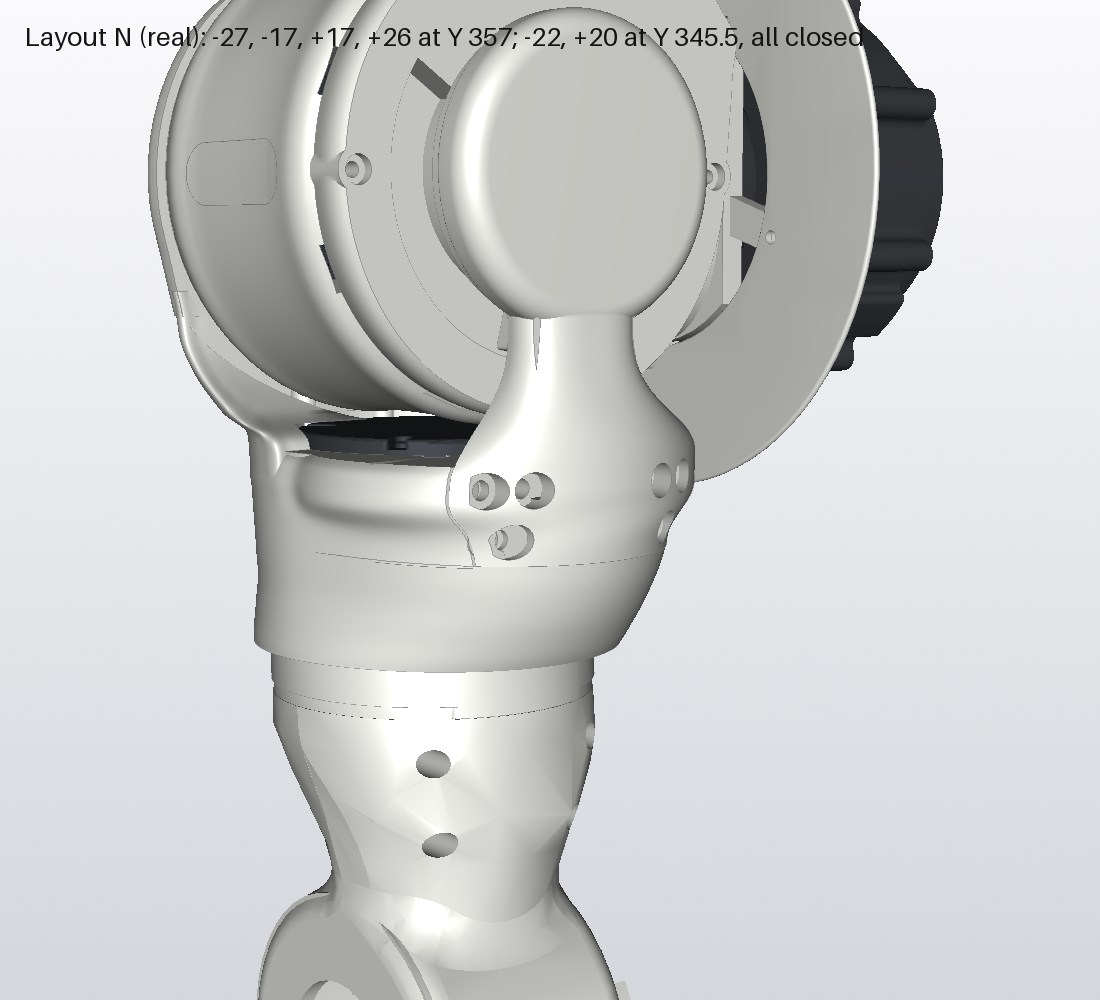
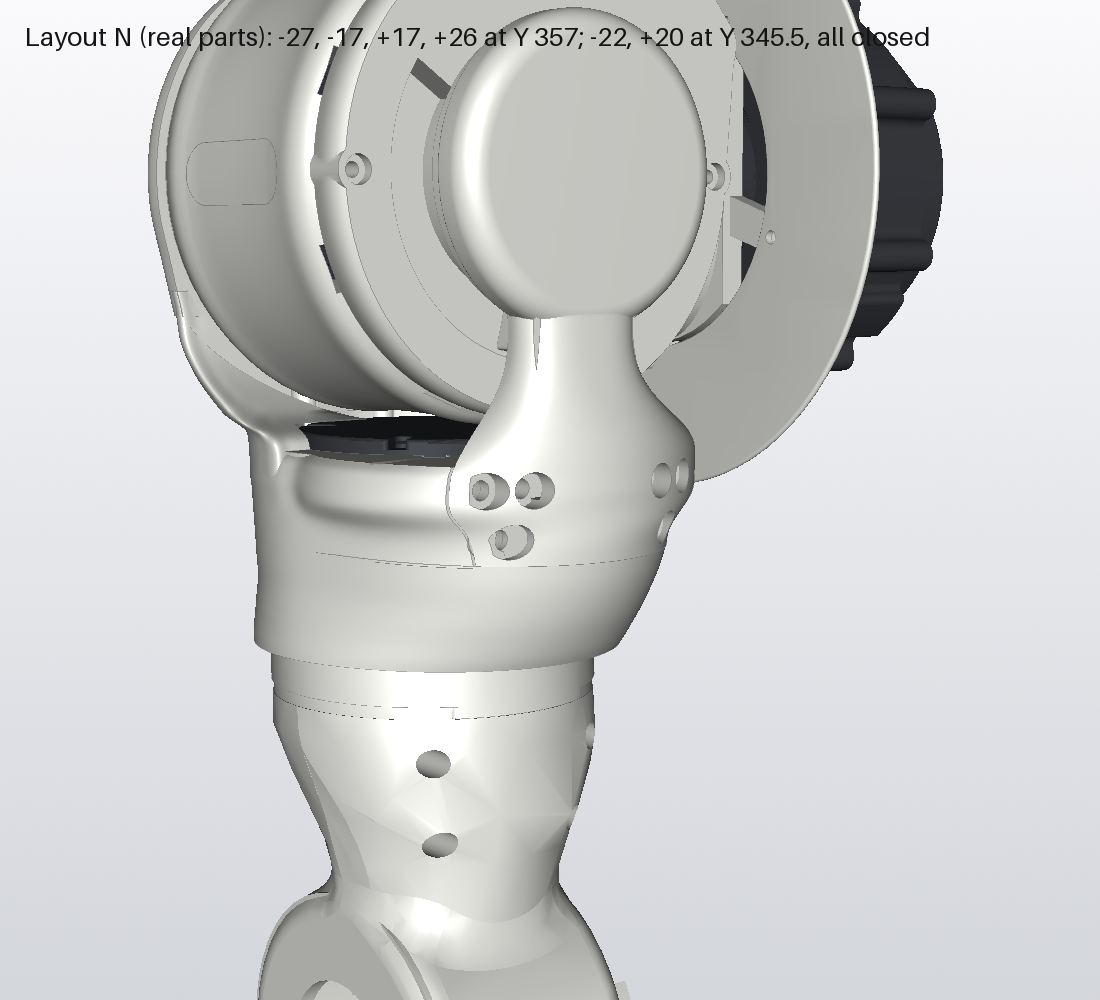
Rear screws sheet: real layout N, rejected G, and N with flush caps

Changed region(s): [[0.1855, 0.031, 0.8345, 0.062]]

diff --git a/hardware/shoulder/study-20261111/cad-pass1/scripts/render_rear_screws.py b/hardware/shoulder/study-20261111/cad-pass1/scripts/render_rear_screws.py
@@ -12,8 +12,7 @@ from dims import *
 
 OUT = Path(sys.argv[1]); OUT.mkdir(parents=True, exist_ok=True)
 W = R.REPO / 'cad' / '_wip' / 'shoulder-pass1'
-VAR = {'six': ('Before: +-17, +-27 at Y 357; +-22 at Y 345.5 (+27 and +22 break the edge)', W / 'stl' / 'fork_rear.stl'),
-       'N': ('Layout N (real): -27, -17, +17, +26 at Y 357; -22, +20 at Y 345.5, all closed', W / 'stl_look_rsN' / 'fork_rear.stl'),
+VAR = {'N': ('Layout N (real parts): -27, -17, +17, +26 at Y 357; -22, +20 at Y 345.5, all closed', W / 'stl' / 'fork_rear.stl'),
        'G': ('Rejected: symmetric G (+-12, +-24; +-20), joint SF 1.33', W / 'stl_look_rsG' / 'fork_rear.stl')}
 import os
 if (W / 'stl_look_rsNc' / 'fork_rear.stl').exists():

diff --git a/hardware/shoulder/study-20261111/cad-pass1/look-options/rear_screws/README.md b/hardware/shoulder/study-20261111/cad-pass1/look-options/rear_screws/README.md
@@ -20,7 +20,8 @@ would rather have that.
 
 ![sheet](SHEET_rear_screws.png)
 
-Columns: before, layout N (going onto the real parts), and the rejected symmetric layout G.
+Columns: layout N (on the real parts since 8130d8e), the rejected symmetric layout G, and N with flush printed caps
+(option b, mock-up for Joey's pick). The edge-breaking "before" layout is shown in the sheet at commit 9b4569c.
 
 - **N:** top row X -27, -17, +17, +26 at Y 357; lower row -22, +20 at Y 345.5.
   - Every counterbore is fully closed, with at least 1.5 mm of skin to the fork rear's edge. The swell is off-centre, so
@@ -28,5 +29,5 @@ Columns: before, layout N (going onto the real parts), and the rejected symmetri
   - Rated-torque joint layer SF **1.49** (FEA), against 1.5. Accepted as inside FEA scatter.
 - **G** (symmetric ±12/±24, ±20) looks tidier but drops the joint to 1.33. Rejected.
 - **Screws:** all six are ISO 7380 M4 button heads, because the outer recesses are only about 3.1 mm deep.
-- **Caps option (b) on N:** queued. The caps pictures above are on G.
+- **Caps option (b) on N:** a 0.3 mm shut circle round each Ø8 cap, flush with the surface. Mock-up only.
 
